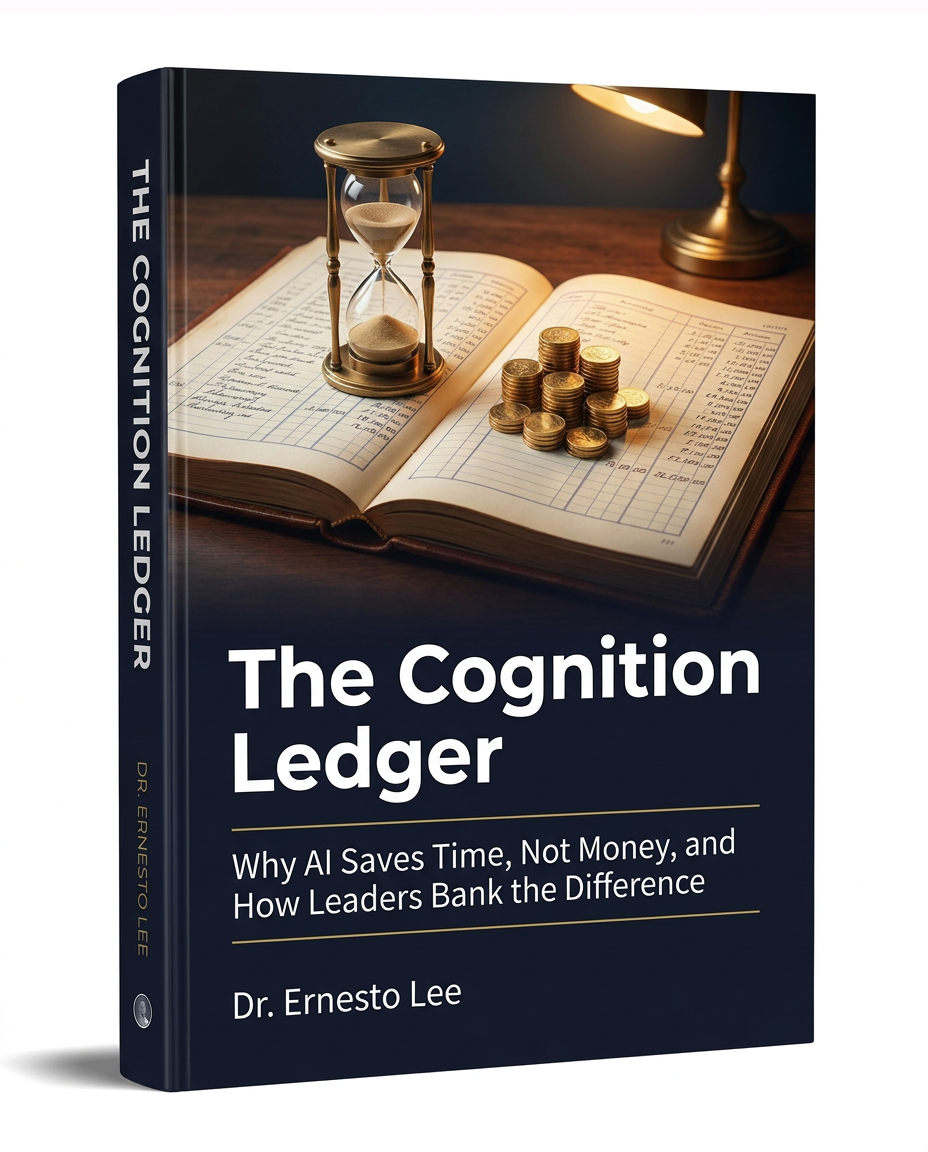
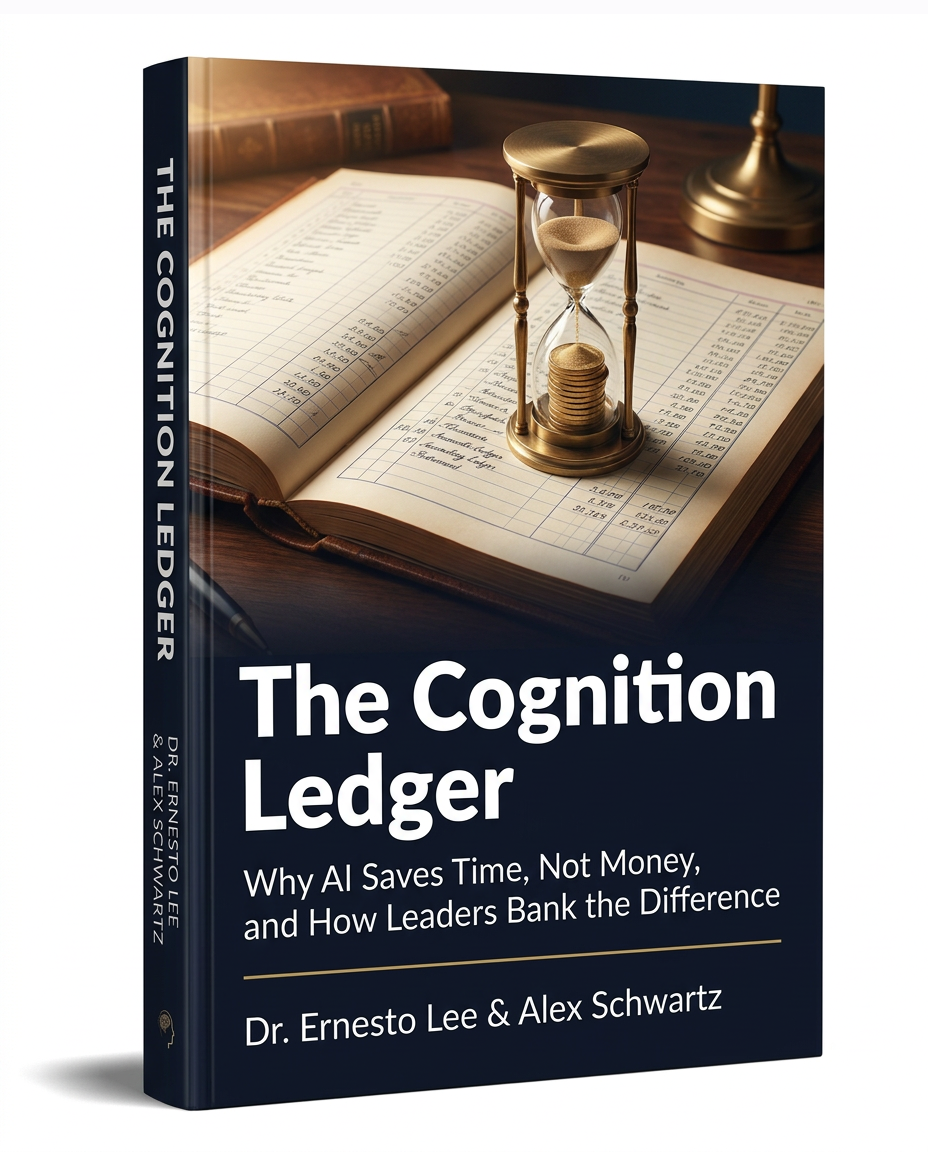
Add Alex Schwartz as co-author: myst.yml authors, home page byline, cover regenerated with both names
Claude-Session: https://claude.ai/code/session_01Mm1D5d5gwyvPYMZa7zo9Ug

diff --git a/index.md b/index.md
@@ -2,23 +2,23 @@
 title: "The Cognition Ledger"
 subtitle: "Why AI Saves Time, Not Money, and How Leaders Bank the Difference"
 description: |
-  Why AI saves time, not money, and how leaders bank the difference. By Dr. Ernesto Lee.
+  Why AI saves time, not money, and how leaders bank the difference. By Dr. Ernesto Lee and Alex Schwartz.
 ---
 
 :::{figure} images/cover.png
 :label: fig-cover
-:alt: The Cognition Ledger cover by Dr. Ernesto Lee
+:alt: The Cognition Ledger cover by Dr. Ernesto Lee and Alex Schwartz
 :width: 100%
 :align: center
 
-*The Cognition Ledger* · Dr. Ernesto Lee
+*The Cognition Ledger* · Dr. Ernesto Lee & Alex Schwartz
 :::
 
 
 # The Cognition Ledger
 ## Why AI Saves Time, Not Money, and How Leaders Bank the Difference
 
-**By Dr. Ernesto Lee**
+**By Dr. Ernesto Lee and Alex Schwartz**
 
 ---
 
